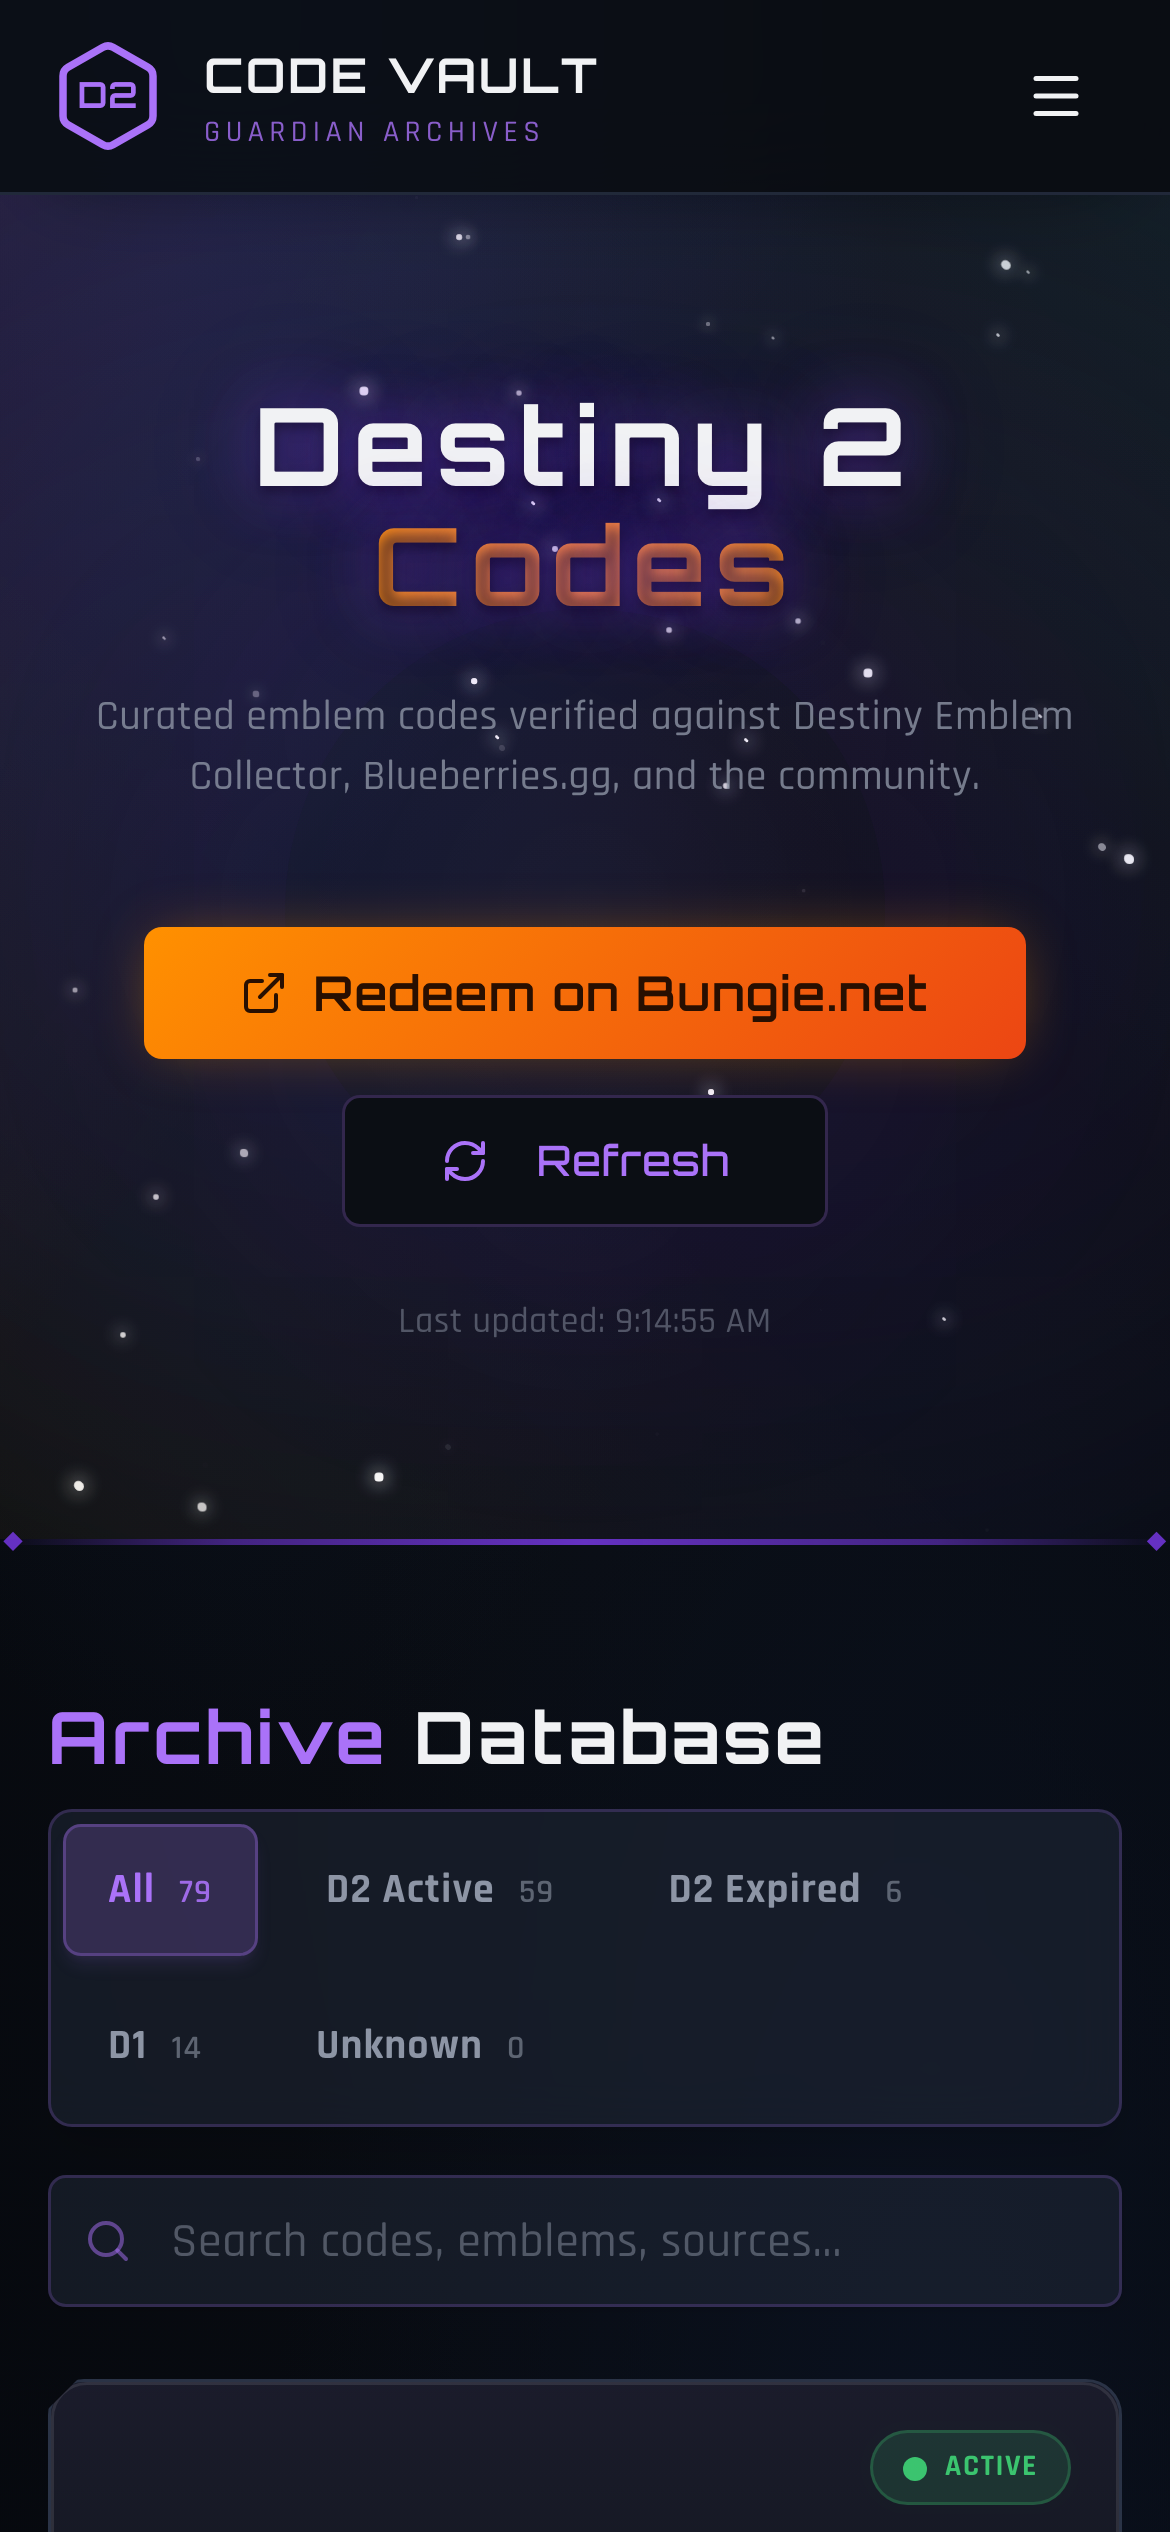
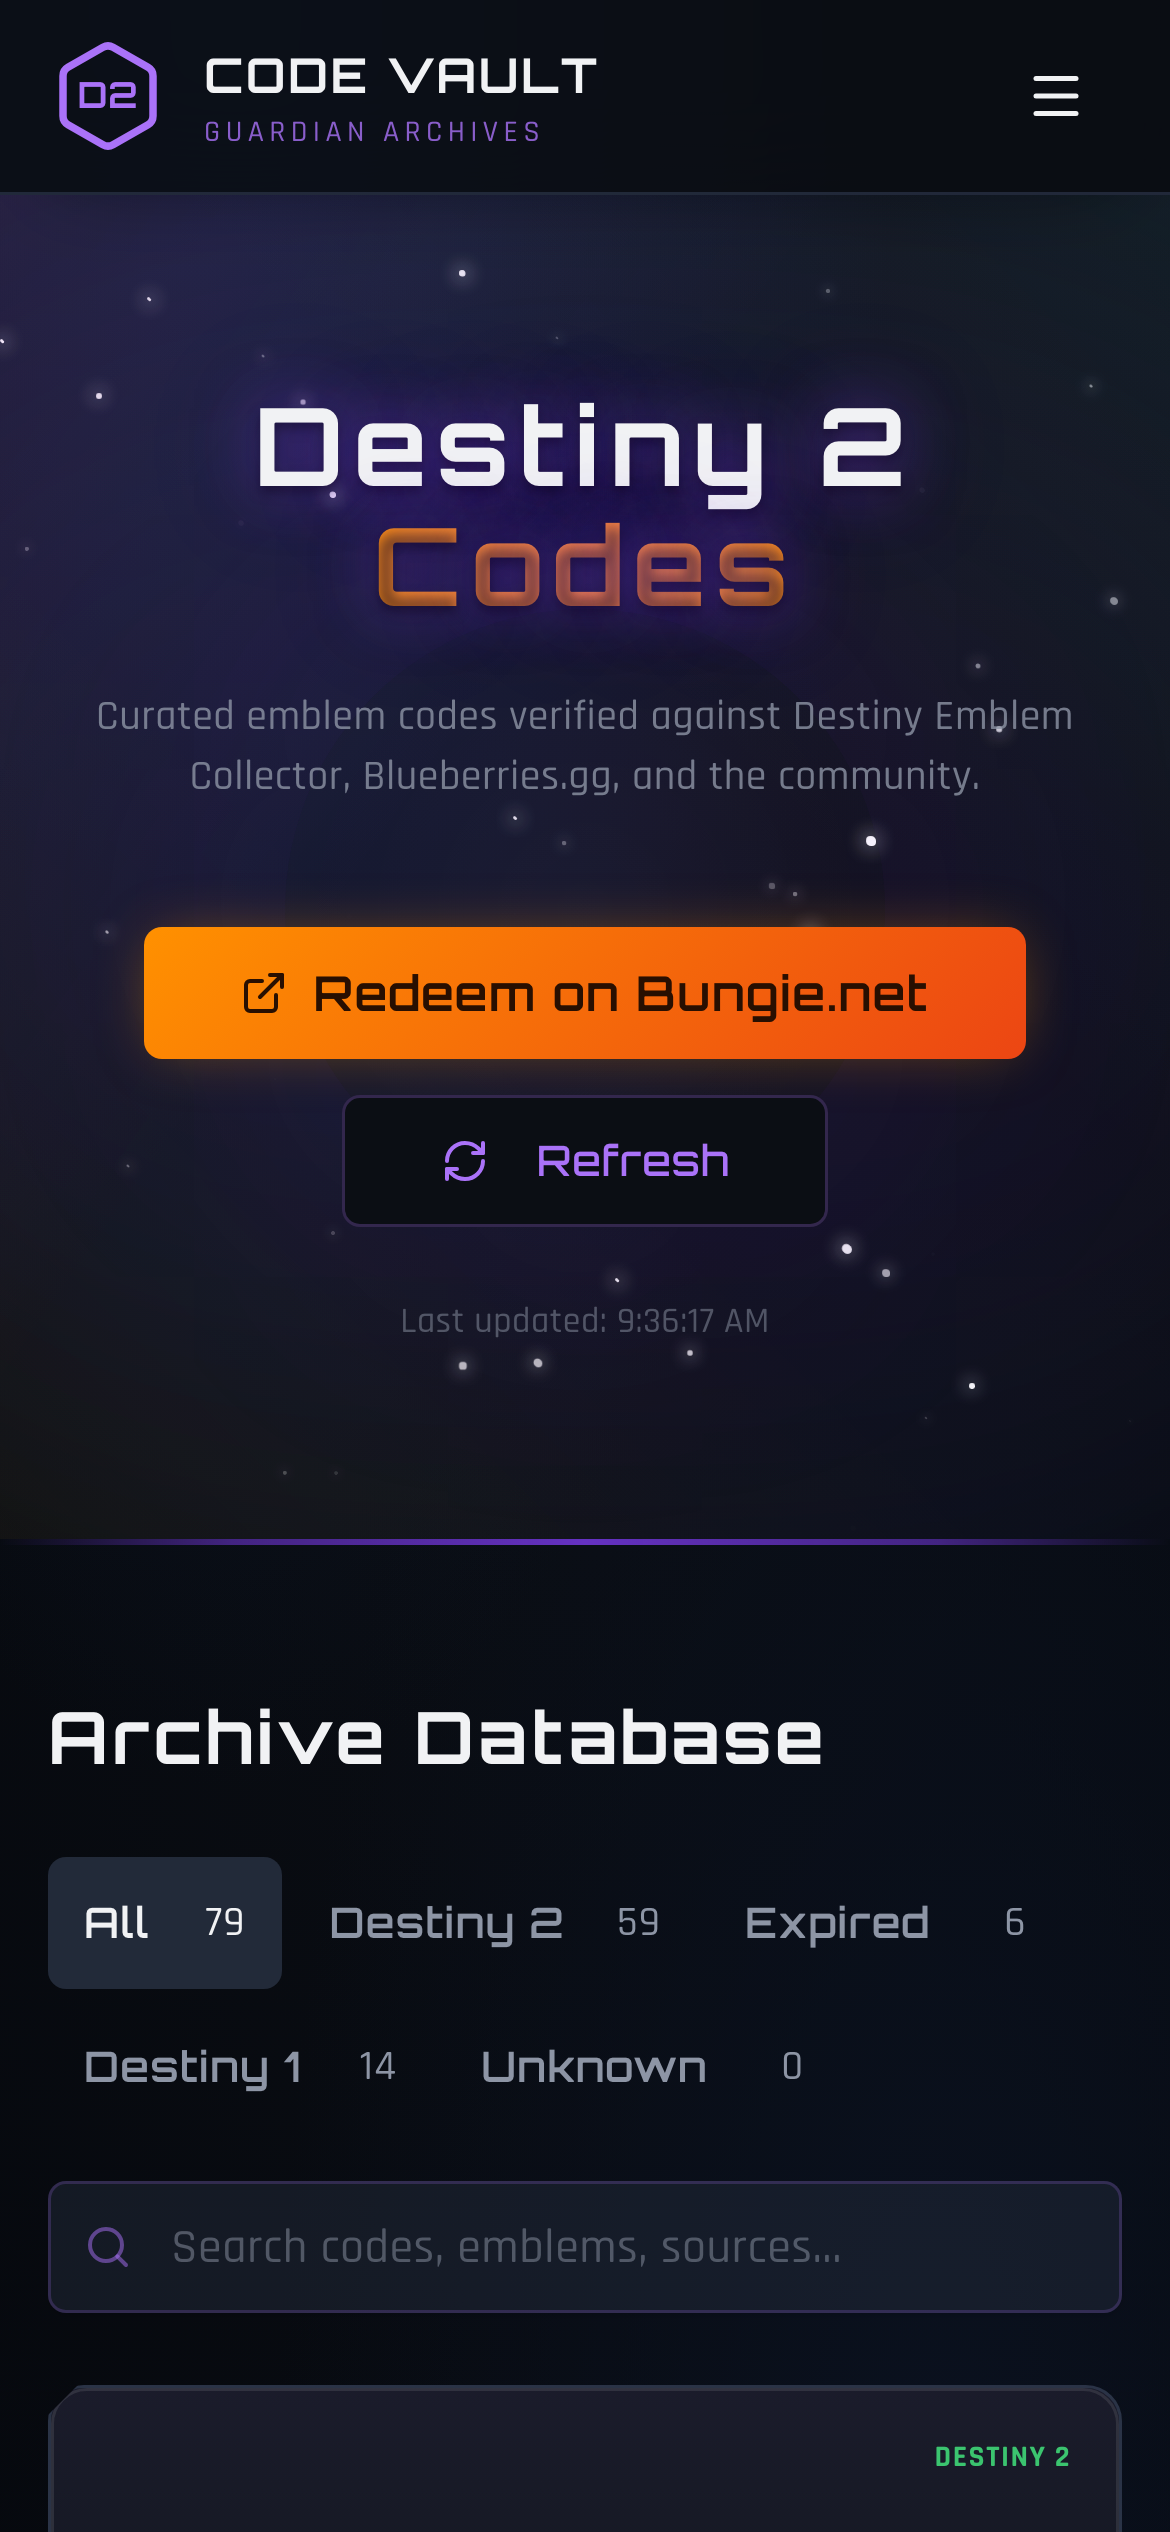
Name the catalogue filters and drop the status dots
The glass cards, glitch codes, and starfield stay. Card corners are words. Archive Database is one heading. Filters read All, Destiny 2, Expired, Destiny 1, and Unknown, with the count set apart.

diff --git a/src/components/CodeFilters.tsx b/src/components/CodeFilters.tsx
@@ -13,9 +13,9 @@ interface CodeFiltersProps {
 
 const FILTERS: { value: FilterStatus; label: string }[] = [
   { value: 'all', label: 'All' },
-  { value: 'active', label: 'D2 Active' },
-  { value: 'expired', label: 'D2 Expired' },
-  { value: 'd1', label: 'D1' },
+  { value: 'active', label: 'Destiny 2' },
+  { value: 'expired', label: 'Expired' },
+  { value: 'd1', label: 'Destiny 1' },
   { value: 'unknown', label: 'Unknown' },
 ];
 
@@ -28,37 +28,30 @@ export function CodeFilters({
 }: CodeFiltersProps) {
   return (
     <div className="flex flex-col gap-4 sm:flex-row sm:items-center sm:justify-between">
-      <div className="flex flex-wrap items-center gap-2 rounded-lg border border-accent/20 bg-secondary/50 p-1 shadow-lg backdrop-blur-sm w-full sm:w-auto">
+      <div className="flex flex-wrap items-center gap-1" role="group" aria-label="Filter the catalogue">
         {FILTERS.map(({ value, label }) => {
-          const getFilterStyle = () => {
-            if (filter !== value) return 'border border-transparent text-muted-foreground hover:text-foreground hover:bg-accent/10';
-            switch (value) {
-              case 'active': return 'bg-strand/20 text-strand border border-strand/30 shadow-md shadow-strand/10';
-              case 'expired': return 'bg-stasis/15 text-stasis border border-stasis/25 shadow-md shadow-stasis/10';
-              case 'd1': return 'bg-solar/20 text-solar border border-solar/30 shadow-md shadow-solar/10';
-              case 'unknown': return 'bg-accent/20 text-accent border border-accent/30 shadow-md shadow-accent/10';
-              default: return 'bg-accent/20 text-accent border border-accent/30 shadow-md shadow-accent/10';
-            }
-          };
+          const selected = filter === value;
+          const selectedTone = {
+            all: 'bg-secondary text-foreground',
+            active: 'tone-strand bg-strand/15 text-strand',
+            expired: 'tone-stasis bg-stasis/15 text-stasis',
+            d1: 'tone-solar bg-solar/15 text-solar',
+            unknown: 'tone-accent bg-accent/15 text-accent',
+          }[value];
 
           return (
             <button
               key={value}
               type="button"
               onClick={() => onFilterChange(value)}
-              aria-pressed={filter === value}
+              aria-pressed={selected}
               className={cn(
-                'min-h-[44px] px-3.5 py-2 text-sm font-bold rounded-md transition-[background-color,color,border-color,box-shadow,transform] duration-200 tracking-wide touch-manipulation',
-                getFilterStyle()
+                'inline-flex min-h-11 items-center gap-3 rounded-md px-3 text-sm tracking-wide transition-colors',
+                selected ? selectedTone : 'text-muted-foreground hover:bg-secondary hover:text-foreground'
               )}
             >
-              {label}
-              <span className={cn(
-                'ml-2 text-[11px] font-semibold',
-                filter === value ? 'opacity-90' : 'opacity-60'
-              )}>
-                {counts[value]}
-              </span>
+              <span className="font-heading font-semibold">{label}</span>
+              <span className="min-w-[1.25rem] text-right font-medium tabular-nums">{counts[value]}</span>
             </button>
           );
         })}

diff --git a/src/components/CodeCard.tsx b/src/components/CodeCard.tsx
@@ -237,34 +237,16 @@ export const CodeCard = memo(function CodeCard({ code }: CodeCardProps) {
       <div className="relative p-4 space-y-3 flex-1 flex flex-col">
         <div className="flex items-center justify-end">
           {isActive && (
-            <div className="badge-pulse-active flex items-center gap-1.5 px-2.5 py-1 rounded-full bg-strand/15 border border-strand/25">
-              <span className="relative flex h-2 w-2">
-                <span className="animate-ping absolute inline-flex h-full w-full rounded-full bg-strand opacity-60"></span>
-                <span className="relative inline-flex rounded-full h-2 w-2 bg-strand"></span>
-              </span>
-              <span className="text-[10px] font-bold uppercase tracking-wider text-strand">Active</span>
-            </div>
+            <span className="status-strand text-[10px] font-bold uppercase tracking-wider text-strand">Destiny 2</span>
           )}
           {isD1 && (
-            <div className="flex items-center gap-1.5 px-2.5 py-1 rounded-full bg-solar/15 border border-solar/25">
-              <span className="relative flex h-2 w-2">
-                <span className="relative inline-flex rounded-full h-2 w-2 bg-solar"></span>
-              </span>
-              <span className="text-[10px] font-bold uppercase tracking-wider text-solar">Destiny 1</span>
-            </div>
+            <span className="status-solar text-[10px] font-bold uppercase tracking-wider text-solar">Destiny 1</span>
           )}
           {isExpired && (
-            <div className="flex items-center gap-1.5 px-2.5 py-1 rounded-full bg-stasis/15 border border-stasis/25">
-              <span className="relative flex h-2 w-2">
-                <span className="relative inline-flex rounded-full h-2 w-2 bg-stasis"></span>
-              </span>
-              <span className="text-[10px] font-bold uppercase tracking-wider text-stasis">Expired</span>
-            </div>
+            <span className="status-stasis text-[10px] font-bold uppercase tracking-wider text-stasis">Expired</span>
           )}
           {isUnknown && (
-            <div className="flex items-center gap-1.5 px-2.5 py-1 rounded-full bg-secondary border border-border">
-              <span className="text-[10px] font-bold uppercase tracking-wider text-muted-foreground">Unknown</span>
-            </div>
+            <span className="text-[10px] font-bold uppercase tracking-wider text-muted-foreground">Unknown</span>
           )}
         </div>
 

diff --git a/src/index.css b/src/index.css
@@ -781,16 +781,6 @@
     animation: count-up 0.6s cubic-bezier(0.4, 0, 0.2, 1);
   }
 
-  /* Badge pulse animation - very subtle */
-  @keyframes badge-pulse {
-    0%, 100% { transform: scale(1); opacity: 1; }
-    50% { transform: scale(1.02); opacity: 0.95; }
-  }
-
-  .badge-animated {
-    animation: badge-pulse 3s ease-in-out infinite;
-  }
-
   /* Hexagonal divider pattern */
   .hex-divider {
     height: 2px;
@@ -804,19 +794,6 @@
     );
     position: relative;
   }
-
-  .hex-divider::before,
-  .hex-divider::after {
-    content: '◆';
-    position: absolute;
-    top: 50%;
-    transform: translateY(-50%);
-    color: rgba(124, 58, 237, 0.8);
-    font-size: 12px;
-  }
-
-  .hex-divider::before { left: 0; }
-  .hex-divider::after { right: 0; }
 
   /* Floating particles */
   @keyframes particle-float {
@@ -1162,26 +1139,6 @@
     opacity: 1;
   }
 
-  /* 3. STATUS BADGES - Enhanced Pulse */
-  .badge-pulse-active {
-    position: relative;
-  }
-
-  .badge-pulse-active::before {
-    content: '';
-    position: absolute;
-    inset: -4px;
-    border-radius: inherit;
-    background: hsl(var(--strand));
-    opacity: 0;
-    animation: badge-glow-pulse 2s ease-in-out infinite;
-  }
-
-  @keyframes badge-glow-pulse {
-    0%, 100% { opacity: 0; transform: scale(1); }
-    50% { opacity: 0.3; transform: scale(1.1); }
-  }
-
   /* 4. TYPOGRAPHY - Enhanced Text Shadows */
   .title-shadow {
     text-shadow: 
@@ -1384,3 +1341,14 @@
     pointer-events: none;
   }
 }
+
+/* Filter chips and card status words. The page-level subclass tokens clear
+   4.5:1 on the page, and miss it on a light card or a same-hue tint. Kept
+   outside @layer so they win over the utility color. */
+.light-mode [aria-pressed="true"].tone-strand,
+.light-mode .status-strand { color: hsl(145 75% 18%); }
+.light-mode [aria-pressed="true"].tone-stasis,
+.light-mode .status-stasis { color: hsl(192 90% 18%); }
+.light-mode [aria-pressed="true"].tone-solar,
+.light-mode .status-solar { color: hsl(18 90% 24%); }
+.light-mode [aria-pressed="true"].tone-accent { color: hsl(265 75% 32%); }

diff --git a/src/pages/Index.tsx b/src/pages/Index.tsx
@@ -76,11 +76,9 @@ const Index = () => {
 
       <main className="container mx-auto px-4 py-12">
         <div className="space-y-6">
-          <div className="flex items-center justify-between mb-2">
-            <h2 className="font-heading text-2xl md:text-3xl font-bold tracking-wider text-foreground">
-              <span className="text-accent">Archive</span> Database
-            </h2>
-          </div>
+          <h2 className="font-heading text-2xl font-bold tracking-wider text-foreground md:text-3xl">
+            Archive Database
+          </h2>
 
           <CodeFilters
             filter={filter}

diff --git a/README.md b/README.md
@@ -315,6 +315,13 @@ This release directly addresses community feedback from [r/DestinyTheGame](https
 ### Version
 - Bumped `package.json` version to **2.4.0**
 
+## 📋 v2.9.3 Updates (November 2026)
+
+The cards, glitch codes, and starfield stay. Status on a card is a word, and each catalogue filter is a name with its count set apart.
+
+- Card corners say Destiny 2, Destiny 1, Expired, or Unknown. The status dots are gone.
+- Archive Database is one heading. The filters read All, Destiny 2, Expired, Destiny 1, and Unknown.
+
 ## 📋 v2.9.2 Updates (November 2026)
 
 The same cards, glitch codes, and starfield. The bar across the top is one surface now, and About, Privacy, and missing pages use it too.
